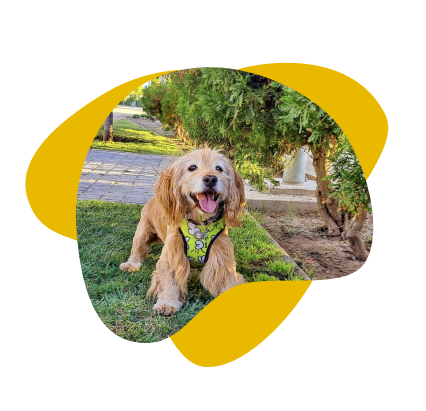
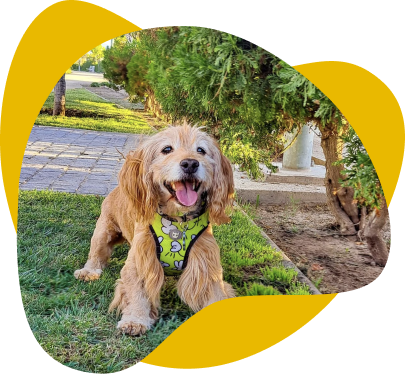
carousel centrado

diff --git a/src/components/Carousel.jsx b/src/components/Carousel.jsx
@@ -1,18 +1,100 @@
-import React from 'react'
-import { CardReview } from './CardReview';
+import React, { useState } from "react";
+import { CarouselProvider, Slider, Slide, ButtonBack, ButtonNext } from "pure-react-carousel";
+import "pure-react-carousel/dist/react-carousel.es.css";
+import { CardReview } from "./CardReview";
 
-export const Carousel = () => {
+/* Install pure-react-carousel using -> npm i pure-react-carousel */
 
-  return (
-    <div className='divCarousel'>
-     <div className="carousel carousel-center rounded-box items-center">
-        <div id="slide1" className="carousel-item">
-       
-           <CardReview/>
- 
-        </div> 
-    </div>
-    </div>
+export default function Carousel() {
+    return (
+        <div className="2xl:mx-auto 2xl:container flex justify-center">
+            <div className="2xl:px-20 px-6 py-12 w-full lg:w-4/5">
+                {/* Carousel for Small-Sized Screen */}
+                {/* <CarouselProvider className="relative block sm:hidden" naturalSlideWidth={100} isIntrinsicHeight={true} totalSlides={3} visibleSlides={1} step={1} infinite={true}>
+                    <div className="js-flickity flex justify-center items-center">
+                        <ButtonBack role="button" aria-label="slide backward" className="w-12 h-12 md:w-14 md:h-14 rounded-full flex justify-center items-center bg-white border border-gray-300 hover:bg-gray-400 absolute z-30 left-0 ml-8 focus:outline-none focus:bg-gray-400 focus:ring-2 focus:ring-offset-2 focus:ring-gray-400 cursor-pointer" id="prev">
+                            <svg width={8} height={14} viewBox="0 0 8 14" fill="none" xmlns="http://www.w3.org/2000/svg">
+                                <path d="M7 1L1 7L7 13" stroke="black" strokeWidth={2} strokeLinecap="round" strokeLinejoin="round" />
+                            </svg>
+                        </ButtonBack>
+                        <Slider>
+                            <Slide index={0}>
+                                <div className="gallery-cell lg:mr-7 mr-6 lg:w-1/2 sm:w-96 w-full h-full">
+                                    <div className="relative w-full h-full lg:block hidden">
+                                        <img src="https://i.ibb.co/VSsN4Jt/carousel-2.png" alt="sitting area" className="object-center object-cover w-full h-full" />
+                                        <div className="pl-6 pb-6 lg:pl-8 lg:pb-8 absolute left-0 bottom-0">
+                                            <h1 className="text-xl leading-5 lg:text-2xl lg:leading-normal font-medium text-white">Lounge Interior</h1>
+                                        </div>
+                                    </div>
+                                    <div className="relative w-full h-full lg:hidden">
+                                        <img src="https://i.ibb.co/tMB5CZW/behzad-ghaffarian-nh-Wg-ZNV85-LQ-unsplash-1-3-1.png" alt="sitting area" className="object-center object-cover w-full h-full" />
+                                        <div className="pl-6 pb-6 lg:pl-8 lg:pb-8 absolute left-0 bottom-0">
+                                            <h1 className="text-xl leading-5 lg:text-2xl lg:leading-normal font-medium text-white">Lounge Interior</h1>
+                                        </div>
+                                    </div>
+                                </div>
+                            </Slide>
+                            <Slide index={1}>
+                                <div className="gallery-cell lg:mr-7 mr-6 lg:w-1/2 sm:w-96 w-full h-full">
+                                    <div className="relative w-full h-full lg:block hidden">
+                                        <img src="https://i.ibb.co/phw8yGZ/sven-brandsma-Qz6-Zx4-Rjd-D8-unsplash-1.png" alt="chairs" className="object-center object-cover w-full h-full" />
+                                        <div className="pl-6 pb-6 lg:pl-8 lg:pb-8 absolute left-0 bottom-0">
+                                            <h1 className="text-xl leading-5 lg:text-2xl lg:leading-normal font-medium text-white">Lounge Interior</h1>
+                                        </div>
+                                    </div>
+                                    <div className="relative w-full h-full lg:hidden">
+                                        <img src="https://i.ibb.co/g74VYR2/Group-46.png" alt="chairs" className="object-center object-cover w-full h-full" />
+                                        <div className="pl-6 pb-6 lg:pl-8 lg:pb-8 absolute left-0 bottom-0">
+                                            <h1 className="text-xl leading-5 lg:text-2xl lg:leading-normal font-medium text-white">Lounge Interior</h1>
+                                        </div>
+                                    </div>
+                                </div>
+                            </Slide>
+                            <Slide index={2}>
+                                <div className="gallery-cell lg:mr-7 mr-6 lg:w-1/2 sm:w-96 w-full h-full">
+                                    <div className="relative w-full h-full lg:block hidden">
+                                        <img src="https://i.ibb.co/92ZYJyK/behzad-ghaffarian-nh-Wg-ZNV85-LQ-unsplash-1-1.png" alt="chair" className="object-center object-cover w-full h-full" />
+                                        <div className="pl-6 pb-6 lg:pl-8 lg:pb-8 absolute left-0 bottom-0">
+                                            <h1 className="text-xl leading-5 lg:text-2xl lg:leading-normal font-medium text-white">Lounge Interior</h1>
+                                        </div>
+                                    </div>
+                                    <div className="relative w-full h-full lg:hidden">
+                                        <img src="https://i.ibb.co/372ryYP/sven-brandsma-Qz6-Zx4-Rjd-D8-unsplash-3-1.png" alt="chair" className="object-center object-cover w-full h-full" />
+                                        <div className="pl-6 pb-6 lg:pl-8 lg:pb-8 absolute left-0 bottom-0">
+                                            <h1 className="text-xl leading-5 lg:text-2xl lg:leading-normal font-medium text-white">Lounge Interior</h1>
+                                        </div>
+                                    </div>
+                                </div>
+                            </Slide>
+                        </Slider>
+                        <ButtonNext role="button" aria-label="slide forward" className="w-12 h-12 md:w-14 md:h-14 rounded-full flex justify-center items-center bg-white border border-gray-300 hover:bg-gray-400 absolute z-30 right-0 mr-8 focus:outline-none focus:ring-2 focus:ring-offset-2 focus:ring-gray-800" id="next">
+                            <svg width={8} height={14} viewBox="0 0 8 14" fill="none" xmlns="http://www.w3.org/2000/svg">
+                                <path d="M1 1L7 7L1 13" stroke="black" strokeWidth={2} strokeLinecap="round" strokeLinejoin="round" />
+                            </svg>
+                        </ButtonNext>
+                    </div>
+                </CarouselProvider> */}
 
-  )
+                {/* Carousel for Medium and Large-Sized Screen */}
+                <CarouselProvider className="relative hidden sm:block" naturalSlideWidth={100} isIntrinsicHeight={true} naturalSlideHeight={100} totalSlides={3} visibleSlides={1} step={1} infinite={true} currentSlide={1}>
+                    <div className="js-flickity flex justify-center items-center">
+                        <ButtonBack role="button" aria-label="slide backward" className="w-12 h-12 md:w-14 md:h-14 rounded-full flex justify-center items-center bg-white border border-gray-300 hover:bg-gray-400 absolute z-30 left-0 ml-8 focus:outline-none focus:bg-gray-400 focus:ring-2 focus:ring-offset-2 focus:ring-gray-400 cursor-pointer" id="prev">
+                            <svg width={8} height={14} viewBox="0 0 8 14" fill="none" xmlns="http://www.w3.org/2000/svg">
+                                <path d="M7 1L1 7L7 13" stroke="black" strokeWidth={2} strokeLinecap="round" strokeLinejoin="round" />
+                            </svg>
+                        </ButtonBack>
+                        <Slider className="carousel__sliderLarge ">
+                          <CardReview/>
+                        </Slider>
+                        <ButtonNext role="button" aria-label="slide forward" className="w-12 h-12 md:w-14 md:h-14 rounded-full flex justify-center items-center bg-white border border-gray-300 hover:bg-gray-400 absolute z-30 right-0 mr-8 focus:outline-none focus:ring-2 focus:ring-offset-2 focus:ring-gray-800" id="next">
+                            <svg width={8} height={14} viewBox="0 0 8 14" fill="none" xmlns="http://www.w3.org/2000/svg">
+                                <path d="M1 1L7 7L1 13" stroke="black" strokeWidth={2} strokeLinecap="round" strokeLinejoin="round" />
+                            </svg>
+                        </ButtonNext>
+                    </div>
+                </CarouselProvider>
+            </div>
+
+        </div>
+    );
 }

diff --git a/src/styles.css b/src/styles.css
@@ -19,7 +19,7 @@
   position: relative;
   display: flex;
   justify-content: center;
-  margin:2em;
+  margin:1em;
 
 }
 .imgDogReview{
@@ -72,6 +72,42 @@ justify-content: space-evenly;
 }
 
 
+.gallery-cell {
+  height: 400px;
+  padding-right:10px;
+}
+@media (min-width: 300px) and (max-width: 420px) {
+  .gallery-cell {
+      height: 286px ;
+      
+  }
+}
+
+@media (max-width: 640px) {
+  .gallery-cell {
+      padding-right:0;
+  }
+}
+
+.carousel__sliderLarge {
+  padding-left: 10%;
+  padding-right: 10%;
+}
+.divSlideCard{
+  min-height: 380px;
+  display: flex;
+  align-items: center;
+}
+/* gives us the illusion of spaces between the slides */
+.carousel__inner-slideLarge {
+  width: calc(100% - 20px);
+  height: 100%;
+  left: 10px;
+
+  
+}
+
+
 /*CARD CONTACTO*/
 
 .buttonClass{
@@ -80,4 +116,49 @@ justify-content: space-evenly;
   padding: 10px;
   gap: 10px;
   color: #ffffff;
+}
+.divCardContact{
+  background: radial-gradient(circle at 100% 100%, #ffffff 0, #ffffff 14px, transparent 14px) 0% 0%/16px 16px no-repeat,
+  radial-gradient(circle at 0 100%, #ffffff 0, #ffffff 14px, transparent 14px) 100% 0%/16px 16px no-repeat,
+  radial-gradient(circle at 100% 0, #ffffff 0, #ffffff 14px, transparent 14px) 0% 100%/16px 16px no-repeat,
+  radial-gradient(circle at 0 0, #ffffff 0, #ffffff 14px, transparent 14px) 100% 100%/16px 16px no-repeat,
+  linear-gradient(#ffffff, #ffffff) 50% 50%/calc(100% - 4px) calc(100% - 32px) no-repeat,
+  linear-gradient(#ffffff, #ffffff) 50% 50%/calc(100% - 32px) calc(100% - 4px) no-repeat,
+  conic-gradient(from 90deg, #a01e12 12%, #fceccb 28%, rgba(244,219,188,0.25) 74%, #a01e12 95%);
+border-radius: 16px;
+padding: 6px;
+box-sizing: content-box;
+width: 556px;
+height: 240px;
+border-radius: 16px;
+box-sizing: content-box;
+display: flex;
+justify-content: space-around;
+position: relative;
+}
+.divCardContact p{
+font-family: 'Lato';
+font-style: normal;
+font-weight: 400;
+font-size: 16px;
+line-height: 19px;
+text-align: left;
+}
+.divCardContact img{
+  position: absolute;
+  bottom: calc(100% - 311px);
+  right: 275px;
+}
+.divImgContact{
+  width: 30%;
+}
+.divTextCotact{
+  width: 40%;
+  display: flex;
+  justify-content: space-evenly;
+  flex-direction: column;
+  align-items: center;
+}
+.buttonClass{
+  width: 100%;
 }

diff --git a/src/components/CardReview.jsx b/src/components/CardReview.jsx
@@ -1,6 +1,8 @@
 import React, { useEffect, useState } from 'react'
 import { getReviews } from '../data/reviews'
 import '../styles.css'
+import "pure-react-carousel/dist/react-carousel.es.css";
+import { Slide } from 'pure-react-carousel';
 
 
 export const CardReview = () => {
@@ -17,19 +19,24 @@ export const CardReview = () => {
   return (
     <>
       { review.map( review => (
-        <div className='divReview' key={review.id}>
-          <img src={review.img} className='imgDogReview'/>
-            <div className='divCardReview'>
-              <div className="divTextReview">
-                  <p>
-                {review.descripcion}
-                  </p>
-                <blockquote>{review.nombre}</blockquote>
-                <i>{review.icon}</i>
-                <q>{review.perro}</q>
-              </div>
+        <Slide  key={review.id} index={review.id}>
+          <div className='divSlideCard'>
+            <div className='divReview'>
+            <img src={review.img} className='imgDogReview'/>
+              <div className='divCardReview '>
+                <div className="divTextReview">
+                    <p>
+                  {review.descripcion}
+                    </p>
+                  <blockquote>{review.nombre}</blockquote>
+                  <i>{review.icon}</i>
+                  <q>{review.perro}</q>
+                </div>
+            </div>
+            </div>
           </div>
-        </div>
+         
+        </Slide>
     ))}
     </>
   

diff --git a/src/components/CardContact.jsx b/src/components/CardContact.jsx
@@ -4,17 +4,18 @@ import img3 from '/img/img3.png'
 
 export const CardContact = () => {
   return (
-    <div>
-      <div>
+    <div className='divCardContact'>
+      <div className='divImgContact'>
          <img src={img3}/>
       </div>
-      <div>
+      <div className='divTextCotact'>
         <p>
           Si tienes alguna duda o consulta, comunícate con nosotros. Estaremos gustosos de atenderte.
         </p>
-        <button className="btn bg-redPrimary btn-xs sm:btn-sm md:btn-md lg:btn-lg buttonClass hover:bg-yellowPrimary border-current hover:border-current">
+        <button className="btn bg-redPrimary buttonClass hover:bg-yellowPrimary border-current hover:border-current">
           Contáctanos
         </button>
+
       </div>
     </div>
   )

diff --git a/src/section/Testimonios.jsx b/src/section/Testimonios.jsx
@@ -1,5 +1,5 @@
 import React from 'react'
-import { Carousel } from '../components/Carousel';
+import Carousel from './../components/Carousel';
 
 export const Testimonios = () => {
   return (

diff --git a/src/components/Footer.jsx b/src/components/Footer.jsx
@@ -1,0 +1,9 @@
+import React from 'react'
+
+export const Footer = () => {
+  return (
+    <div>
+        
+    </div>
+  )
+}
